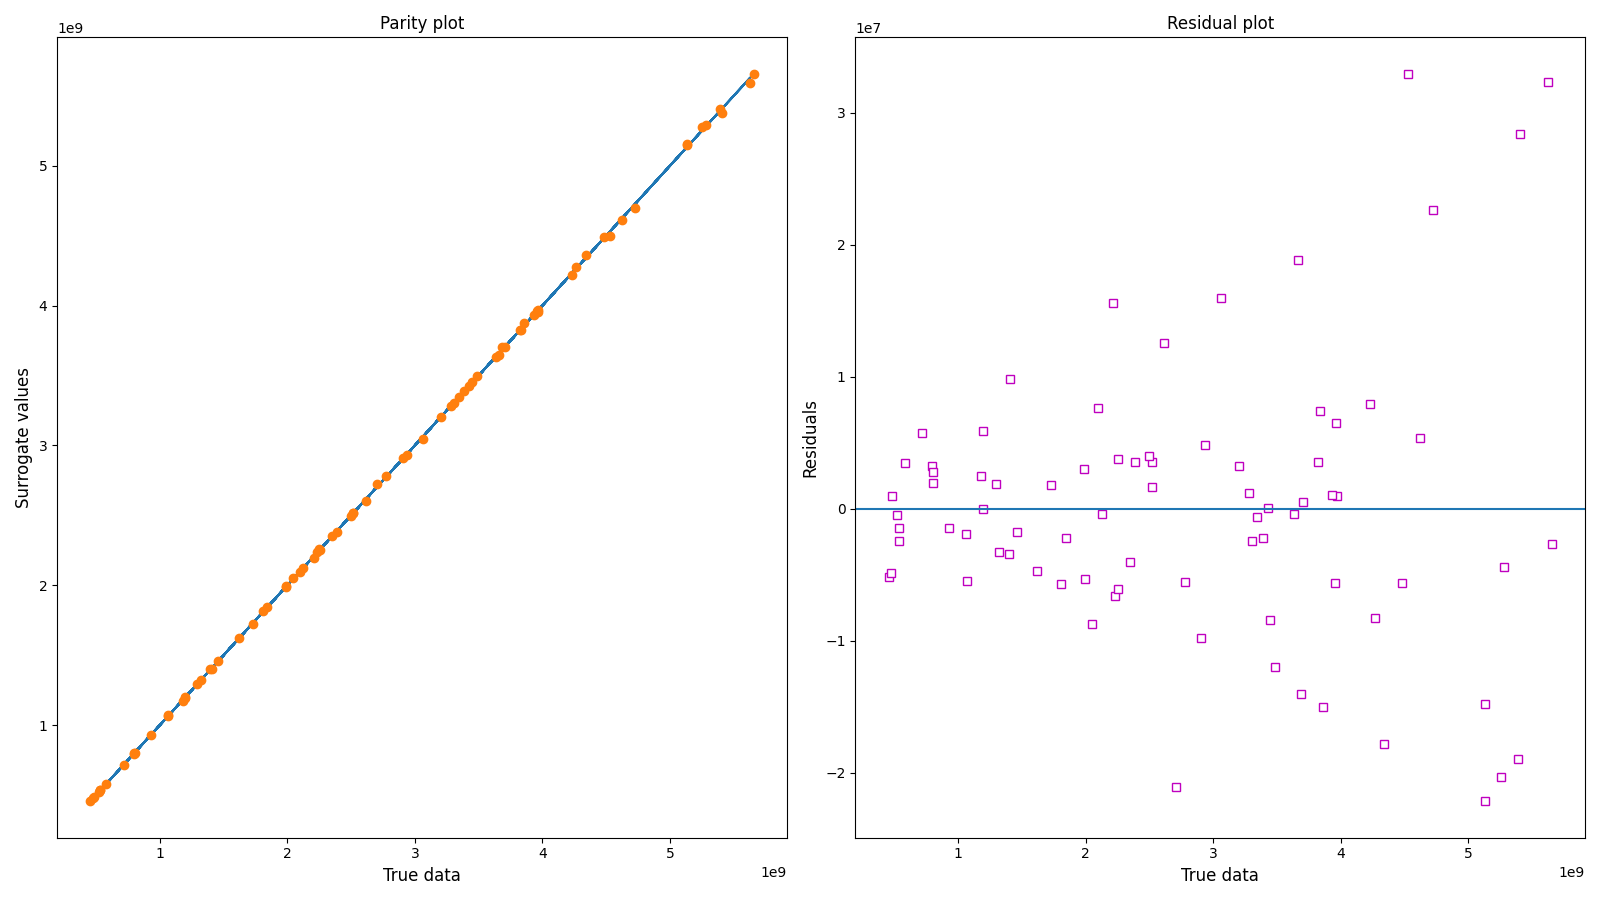
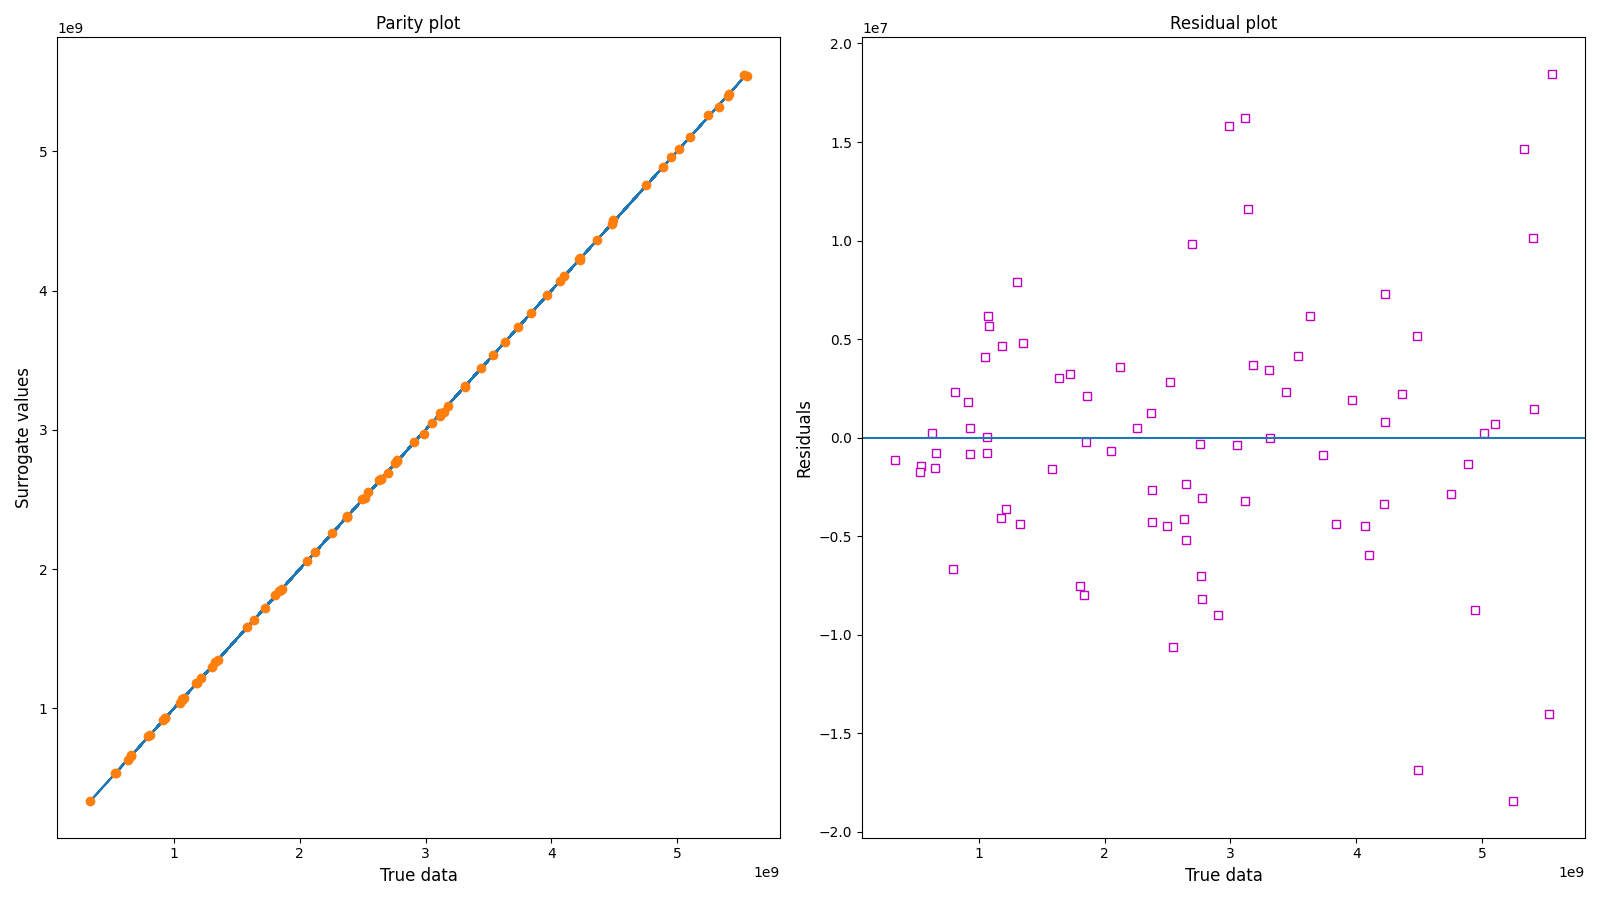
Create rbf surrogate model utilizing trainer

diff --git a/src/watertap_contrib/seto/solar_models/surrogate_models/pysam_model/training_surrogate.py b/src/watertap_contrib/seto/solar_models/surrogate_models/pysam_model/training_surrogate.py
@@ -8,33 +8,46 @@ from pyomo.environ import ConcreteModel, SolverFactory, value, Var, \
     Constraint, Set, Objective, maximize
 from pyomo.common.timing import TicTocTimer
 from idaes.core.surrogate.sampling.data_utils import split_training_validation
-from idaes.core.surrogate.pysmo_surrogate import PysmoPolyTrainer, PysmoSurrogate
+from idaes.core.surrogate.pysmo_surrogate import PysmoRBFTrainer, PysmoSurrogate
 from idaes.core.surrogate.pysmo.radial_basis_function import RadialBasisFunctions
 from idaes.core.surrogate.plotting.sm_plotter import surrogate_scatter2D, surrogate_parity, surrogate_residual
 from idaes.core.surrogate.surrogate_block import SurrogateBlock
 from idaes.core import FlowsheetBlock
 
-def create_rbf_surrogate(data_training):
+def create_rbf_surrogate(training_dataframe, input_labels, output_labels, filename):
     # Capture long output
     stream = StringIO()
     oldstdout = sys.stdout
     sys.stdout = stream
 
-    # Instantiate an RBF model
-    rbf_class = RadialBasisFunctions(
-        XY_data=data_training[['heat_load', 'hours_storage', 'annual_energy']],
-        basis_function='gaussian',
-        overwrite=True)
-    vars = rbf_class.get_feature_vector()
+    # Create PySMO trainer object
+    trainer = PysmoRBFTrainer(
+        input_labels=input_labels,
+        output_labels=output_labels,
+        training_dataframe=training_dataframe
+    )
 
-    # Train model
-    # NOTE: surrogate model saved in file: "solution.pickle"
-    rbf_class.training()
+    # Set PySMO options
+    trainer.config.basis_function = 'gaussian'          # default = gaussian
+    trainer.config.solution_method = 'algebraic'        # default = algebraic
+    trainer.config.regularization = True                # default = True 
+
+    # Train surrogate
+    rbf_train = trainer.train_surrogate()
+
+    # Create callable surrogate object
+    xmin, xmax = [100, 0], [1000, 26]
+    input_bounds = {input_labels[i]: (xmin[i], xmax[i])
+                for i in range(len(input_labels))}
+    rbf_surr = PysmoSurrogate(rbf_train, input_labels, output_labels, input_bounds)
+
+    # Save model to JSON
+    model = rbf_surr.save_to_file(filename, overwrite=True)
 
     # Revert back to standard output
     sys.stdout = oldstdout
 
-    # display first 50 lines and last 50 lines of output
+    # Display first 50 lines and last 50 lines of output
     # celloutput = stream.getvalue().split('\n')
     # for line in celloutput[:50]:
     #     print(line)
@@ -44,30 +57,22 @@ def create_rbf_surrogate(data_training):
     # for line in celloutput[-50:]:
     #     print(line)
 
-    return rbf_class
+    return rbf_surr
 
 
-def _parity_residual_plots(y_data_unscaled, output_predictions):
-    """
-
-    inputs:
-
-    Returns:
-
-    """
-
+def _parity_residual_plots(true_values, modeled_values):
     fig1 = plt.figure(figsize=(16, 9), tight_layout=True)
     ax = fig1.add_subplot(121)
-    ax.plot(y_data_unscaled, y_data_unscaled, "-")
-    ax.plot(y_data_unscaled, output_predictions, "o")
+    ax.plot(true_values, true_values, "-")
+    ax.plot(true_values, modeled_values, "o")
     ax.set_xlabel(r"True data", fontsize=12)
     ax.set_ylabel(r"Surrogate values", fontsize=12)
     ax.set_title(r"Parity plot", fontsize=12)
 
     ax2 = fig1.add_subplot(122)
     ax2.plot(
-        y_data_unscaled,
-        y_data_unscaled - output_predictions,
+        true_values,
+        true_values - modeled_values,
         "s",
         mfc="w",
         mec="m",
@@ -101,25 +106,34 @@ if __name__ == '__main__':
     # Split training and validation data
     data_training, data_validation = split_training_validation(data, training_fraction, seed=len(data))    # each has all columns
 
-    # Create surrogate and save to file: "surrogate.pickle"
-    rbf_class = create_rbf_surrogate(data_training)
+    # Create surrogate and save to file
+    filename = 'pysmo_rbf_surrogate.json'
+    surrogate = create_rbf_surrogate(data_training, input_labels, output_labels, filename)
+
+    # Load surrogate model from file
+    surrogate = PysmoSurrogate.load_from_file(filename)
 
     # Output fit metrics and create parity and residual plots
-    print("R2: {r2} \nRMSE: {rmse}".format(r2=rbf_class.R2, rmse=rbf_class.rmse))
-    rbf_class.parity_residual_plots()
+    print("R2: {r2} \nRMSE: {rmse}".format(
+        r2=surrogate._trained._data[output_labels[0]].model.R2,
+        rmse=surrogate._trained._data[output_labels[0]].model.rmse
+        ))
+    training_output = surrogate.evaluate_surrogate(data_training[input_labels])
+    _parity_residual_plots(
+        true_values=np.array(data_training['annual_energy']),
+        modeled_values=np.array(training_output['annual_energy'])
+        )
     # plt.savefig('/plots/parity_residual_plots.png')
     # plt.close()
 
-    # Load model from pickle
-    rbf_class = RadialBasisFunctions.pickle_load('solution.pickle')['model']
-    print("R2: {r2} \nRMSE: {rmse}".format(r2=rbf_class.R2, rmse=rbf_class.rmse))
-    points = np.array([ [200, 7], [1000, 25] ])
-    surr_output = rbf_class.predict_output(points)
-
     # Validate model using validation data
-    surr_output = rbf_class.predict_output(np.array(data_validation[input_labels]))
-    surr_output = surr_output.flatten()
-    _parity_residual_plots(surr_output, np.array(data_validation['annual_energy']))
+    validation_output = surrogate.evaluate_surrogate(data_validation[input_labels])
+    _parity_residual_plots(
+        true_values=np.array(data_validation['annual_energy']),
+        modeled_values=np.array(validation_output['annual_energy'])
+        )
+    # plt.savefig('/plots/parity_residual_plots.png')
+    # plt.close()
 
     # # Build and run IDAES flowsheet
     # m = ConcreteModel()
